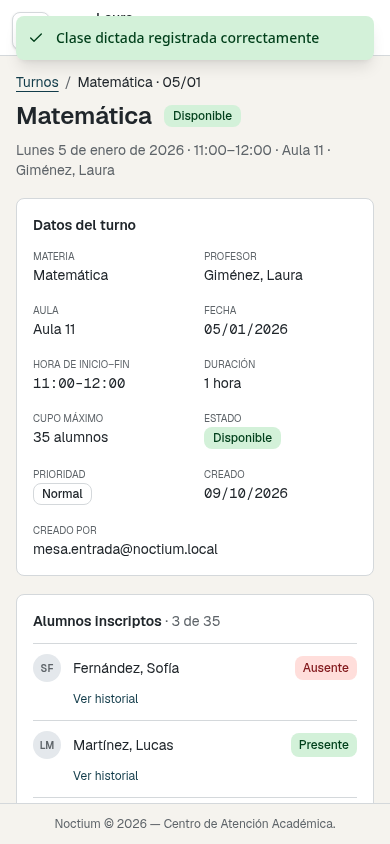
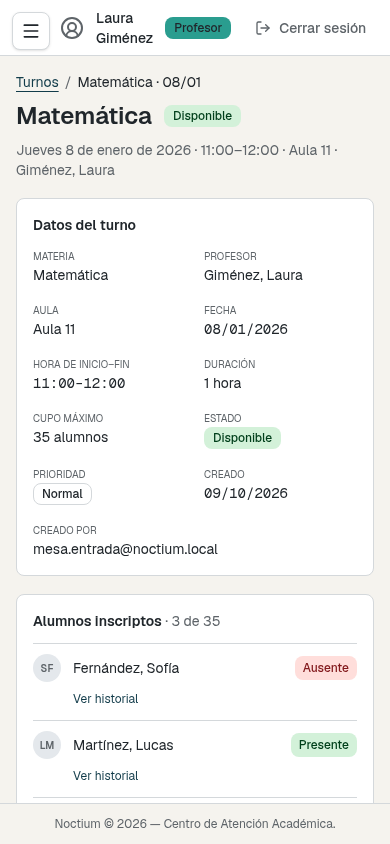
docs: verificar entrega sobre develop actualizado

Changed region(s): [[0.0308, 0.0, 0.9846, 0.1232], [0.0308, 0.154, 0.8615, 0.1848]]

diff --git a/docs/testing/HU-E-09-evidencia.md b/docs/testing/HU-E-09-evidencia.md
@@ -47,3 +47,13 @@ Decisiones de compatibilidad: GET sin clase vigente mantiene 404 CLASE_NO_REGIST
 Último build integrado de producción y revisión final Playwright: aprobados.
 
 PR propio: https://github.com/agustincalisaya/noctium/pull/217. Base develop, sin mezclar commits de otras HU.
+
+## Actualización de develop durante la entrega
+
+Se integró `b7c3b42` (HU-C-23 y componente HU-C-25) en cada rama por separado, preservando únicamente el diff de la historia frente a develop. Claves de UI migradas a `ui.historial.asistencia.*` / `ui.indicadores.*`, sin modificar claves legacy de dominio. Comprobador de referencias TypeScript aprobado. Suite completa sobre la integración actualizada: **1913 aprobados**, 177 PostgreSQL omitidos en la corrida unitaria; la verificación PostgreSQL de177 casos anterior sigue aplicando, sin cambios adicionales en los servicios ni persistencia. Lint actualizado: cero errores y el warning preexistente de Sidebar.
+
+E09 adopta `ConfirmarAccionDialog` y `fetchOLanzar` de C25. El test de pantalla usa fetch global simulado para ejercitar el adaptador real; 31 pruebas de detalle aprobadas. Se preparó una clase adicional de revisión del08/01/2026 mediante los mismos servicios y reloj contextual, en la base local aislada, para repetir el flujo con la confirmación compartida.
+
+Build webpack/TypeScript sobre develop actualizado: aprobado. Playwright repetido sobre ese build, sin errores de página. Los tres PR quedaron sin conflictos frente a develop al verificar GitHub.
+
+Flujo final08/01: selección masiva Ausente/Presente, cambio individual, confirmación compartida con foco en Volver, registro y GET2 presentes/1 ausente; escritorio/móvil y registro legacy comprobados. Capturas finales de selección/confirmación/registro corresponden a esta segunda clase de revisión.
